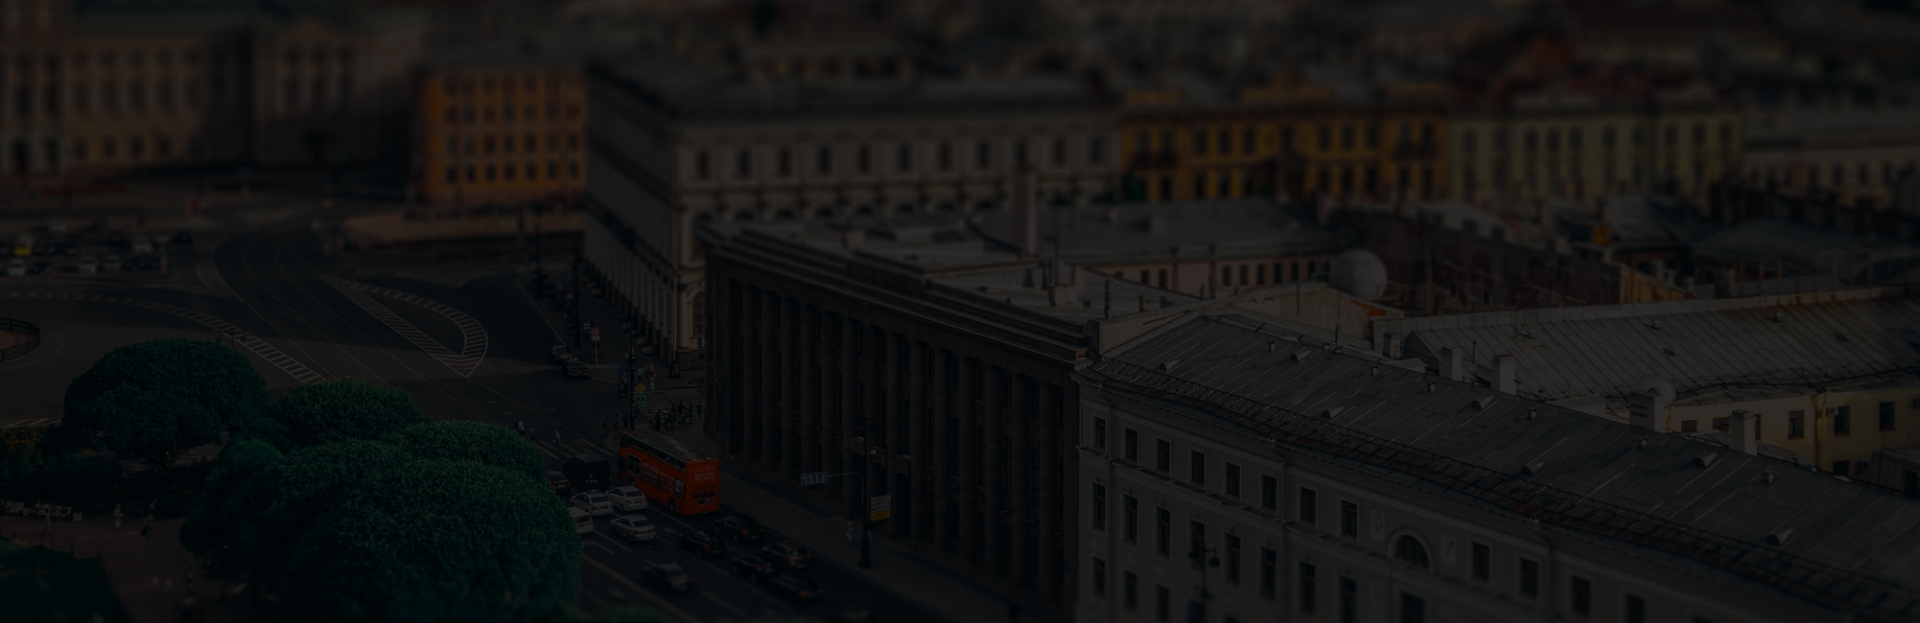
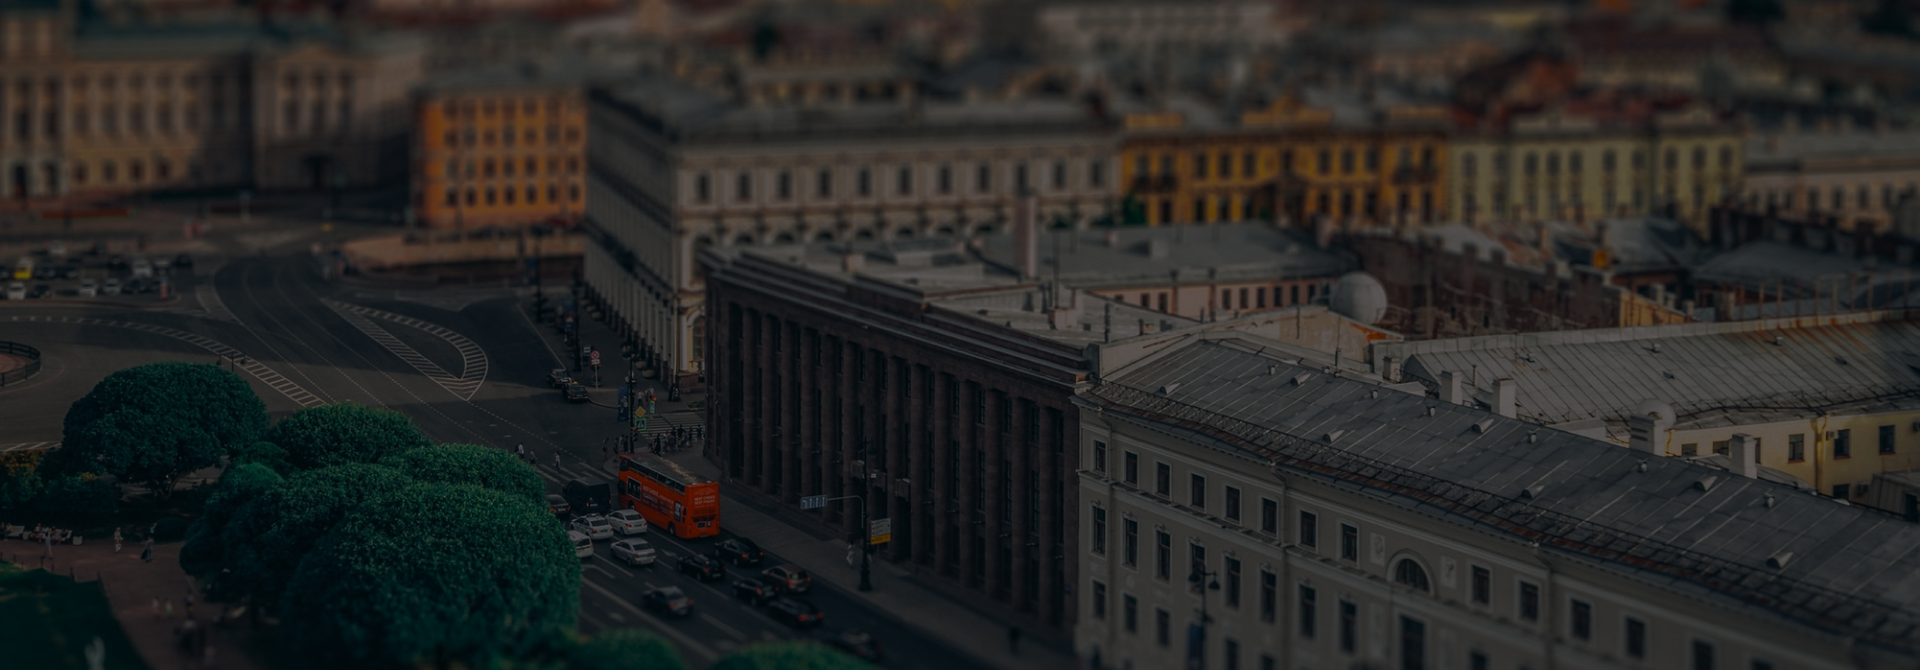
commit

diff --git a/webpagetest1.html b/webpagetest1.html
@@ -13,7 +13,7 @@
     <link href="https://fonts.googleapis.com/css2?family=Merriweather:wght@700;900&display=swap" rel="stylesheet">
 </head>
 <body>
-  <header class="header">
+  <header class="header container">
     <img class="header-img" src="./img/logo.svg" alt="logo">
       <p class="header-title">BuhOne</p>
       <ul>
@@ -51,8 +51,10 @@
   </header>
   <main>
       <section class="desc">
+          <div class="container">
           <h1 class="desc-title">Бухгалтерские услуги в Киеве</h1>
           <a class="desc-link" href="#">Наша презентация</a>
+          </div>
       </section>
       <section class="services">
           <h2 class="section-title">Наши услуги</h2>

diff --git a/css/studycss.css b/css/studycss.css
@@ -10,6 +10,15 @@ body{
 
 }
 
+.container{
+    width: 1115px;
+    margin: 0 auto;
+}
+
+.header{
+    padding: 23px 0 31px 0;
+}
+
 .header-title{
     color: #005FA3;
     font-family: 'Merriweather', serif;
@@ -38,8 +47,14 @@ body{
 }
 
 .desc{
+    padding: 170px 0;
     background-color: #191E22;
-    background-image: url(../img/Rectangle.svg);
+    background-image: url(../img/Rectangle.png);
+
+}
+
+.desc-title{
+    margin: 0 0 131px;
 }
 
 .desc-title, .desc-link {
@@ -61,6 +76,9 @@ body{
     font-weight: 400;
     line-height: 138%; /* 34.5px */
     background: #005FA3;
+    display: block;
+    width: 333px;
+    min-height: 84px;
 }
 
 .services{
